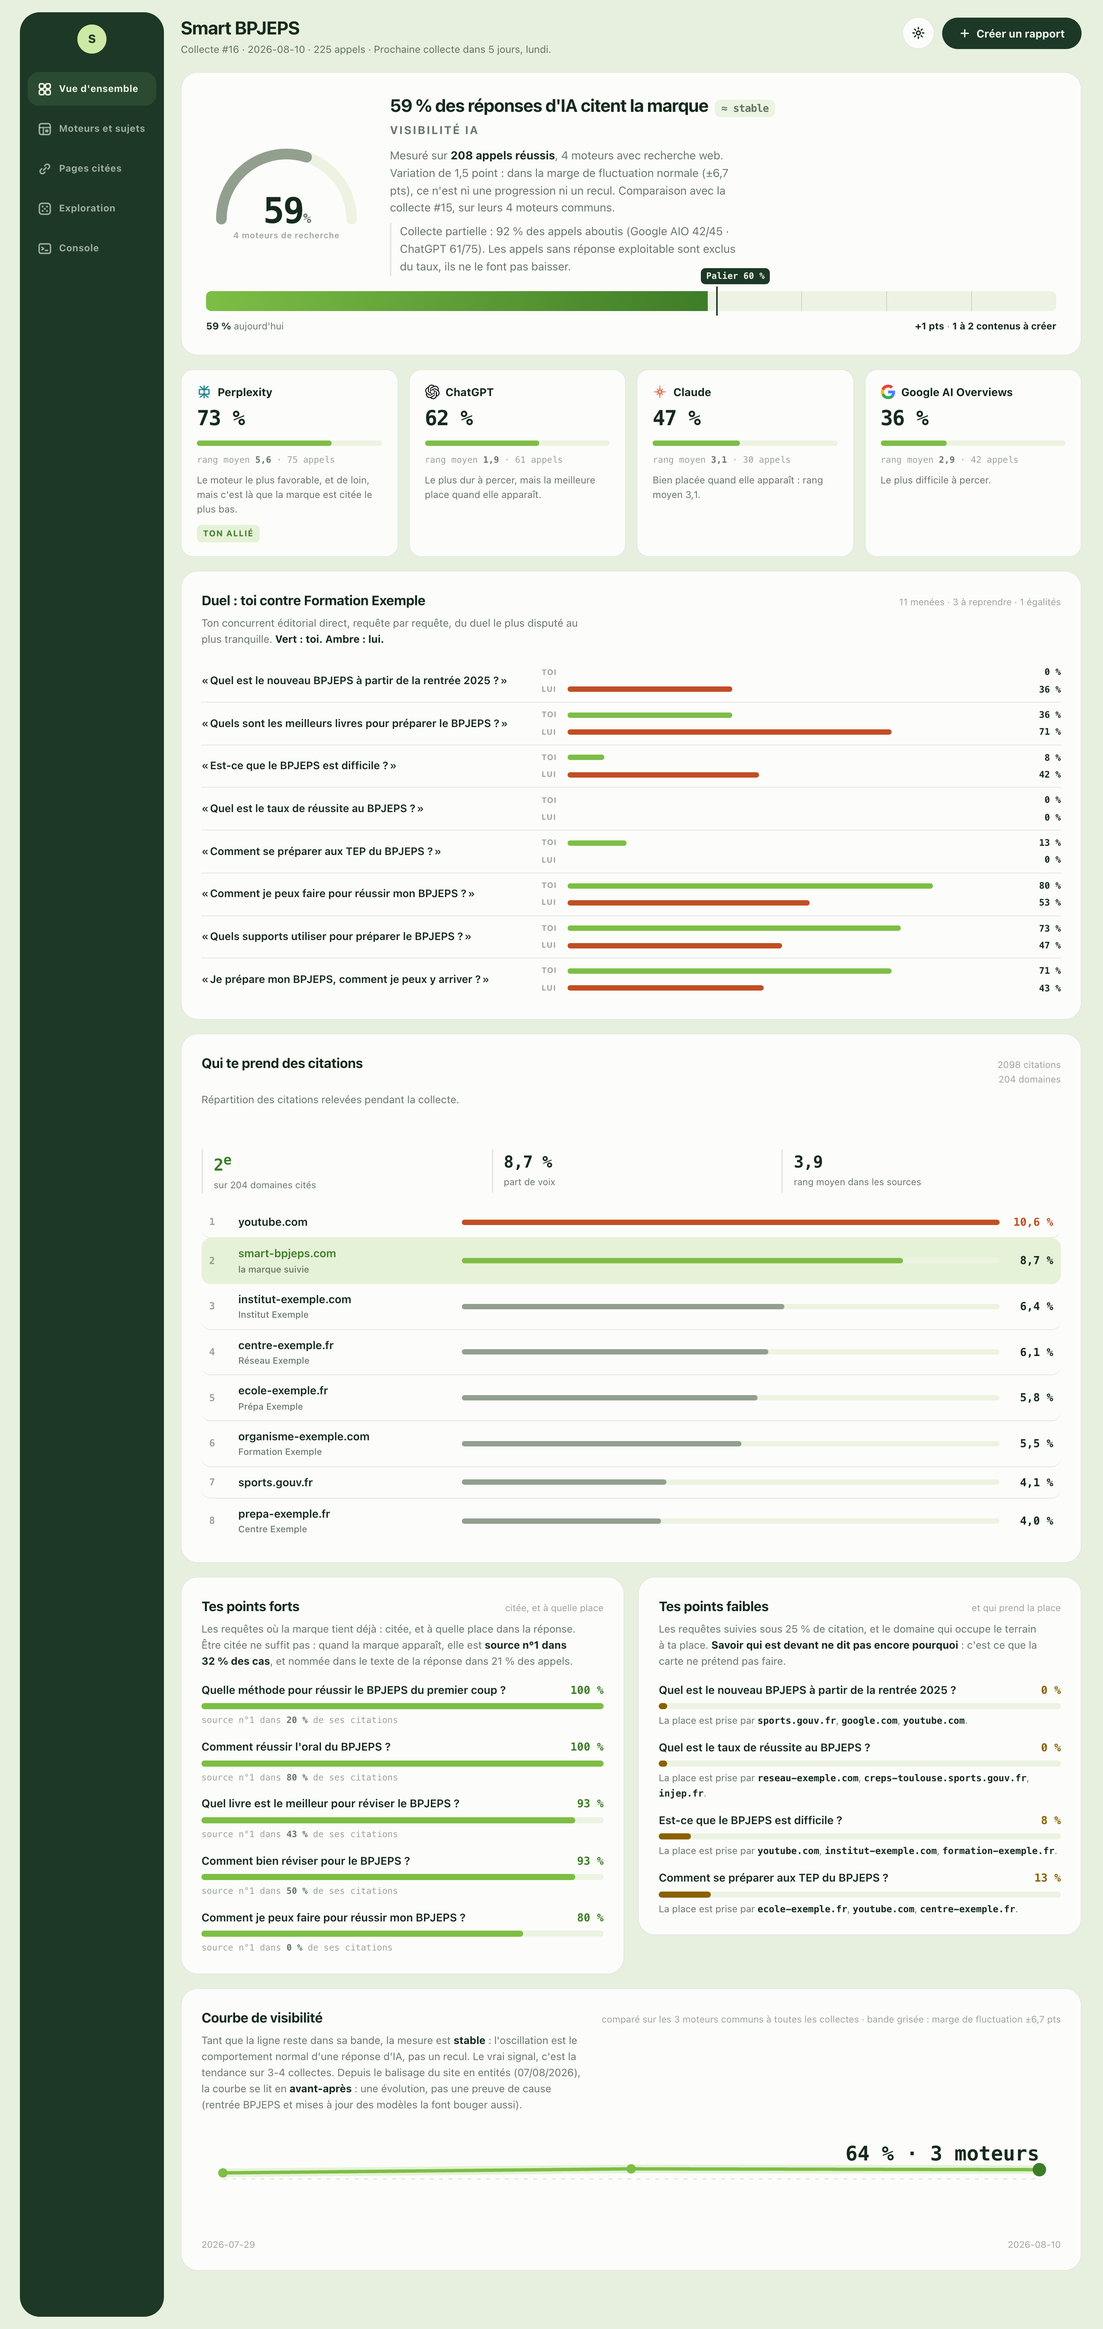
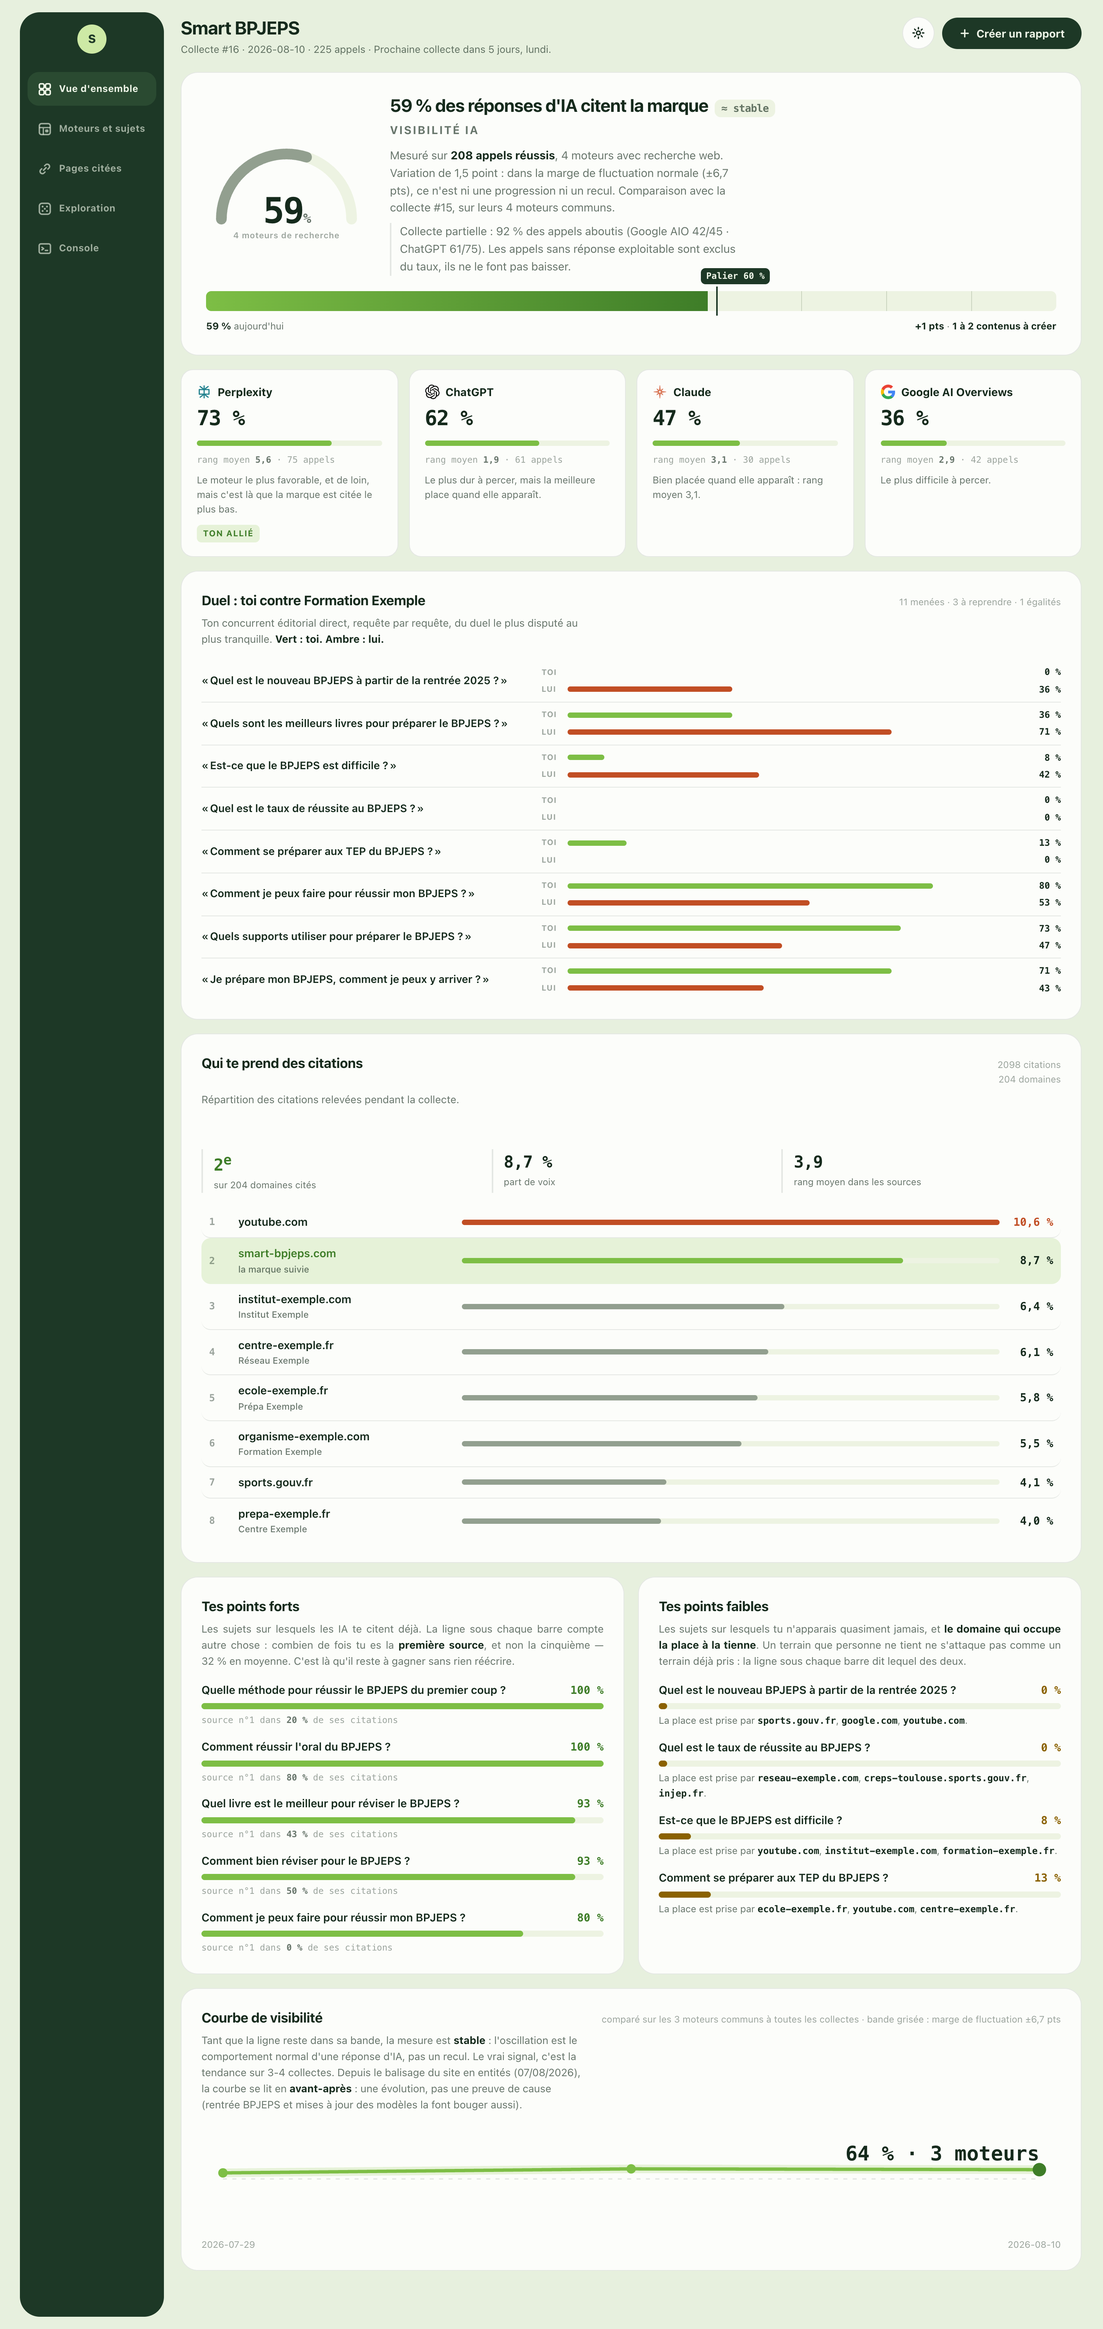
Le README retire les trois chantiers du jour, il ne garde que la direction
Console, points faibles, exploration : ecrits et pousses le jour de leur
construction, alors qu'ils sont encore en train de bouger. Ils sortent du
README public. Ce qui reste : l'extinction de la memoire de marque, parce que
la le README affirmait une methode qui n'est plus pratiquee.

Supprimer un mensonge, toujours. Ajouter une nouveaute, seulement quand la
direction est arretee.

Le code reste, la capture est refaite.

Changed region(s): [[0.5625, 0.8125, 1.0, 0.875], [0.5938, 0.6875, 0.9375, 0.7188], [0.1875, 0.6875, 0.5312, 0.7188]]

diff --git a/geotracker/dashboard_rendu.py b/geotracker/dashboard_rendu.py
@@ -374,10 +374,14 @@ button.chip[aria-selected="true"]{background:var(--forest); color:var(--sur-fore
   cursor:pointer; margin-top:11px}
 .btn--mini:focus-visible{outline:3px solid var(--data-deep); outline-offset:2px}
 
-/* align-items:start : une carte courte garde sa hauteur au lieu de s'étirer
-   et de laisser un grand vide blanc à côté d'une carte longue. */
+/* ⚠ align-items:stretch (12/08/2026, Marion : « les cartes n'ont pas la même
+   hauteur »). C'est l'INVERSE du choix précédent, qui laissait chaque carte à
+   sa hauteur pour éviter un vide blanc sous la plus courte. Arbitrage rendu
+   sur pièce : deux cartes côte à côte qui se lisent en miroir — points forts
+   / points faibles — doivent finir sur la même ligne, le vide éventuel coûte
+   moins cher que le décalage. */
 .grid{display:grid; grid-template-columns:1fr 1fr; gap:18px;
-  align-items:start}
+  align-items:stretch}
 .card{background:var(--paper); border:1px solid var(--line); border-radius:22px;
   padding:24px 26px}
 .card__head{display:flex; align-items:baseline; justify-content:space-between; gap:12px;
@@ -421,8 +425,9 @@ button.chip[aria-selected="true"]{background:var(--forest); color:var(--sur-fore
    sinon chaque ligne de l'une tombe entre deux lignes de l'autre et l'œil ne
    peut plus les comparer (vu par Marion le 12/08/2026). Les chapeaux étant de
    longueurs différentes, on leur impose un plancher commun. */
-.grid .card__lead{min-height:4.4em}
-@media(max-width:1020px){.grid .card__lead{min-height:0}}
+.grid .card__lead{min-height:4.4em; max-width:none; text-align:justify;
+  text-wrap:pretty}
+@media(max-width:1020px){.grid .card__lead{min-height:0; text-align:left}}
 .st__n1{font-family:var(--f-mono); font-size:.72rem; color:var(--ink-faint); margin-top:6px}
 .st__n1 b{color:var(--ink-soft)}
 .st--faible li h3 span{color:var(--opp)}
@@ -1002,19 +1007,25 @@ def _forteresses(f: dict) -> str:
     « Dominance » portait la part de n°1 — sur presque les mêmes requêtes, donc
     lues comme une répétition. Les deux mesures tiennent maintenant sur la même
     ligne : citée à X %, première à Y %."""
-    # Chapeau tenu court volontairement (12/08/2026) : à côté, « Tes points
-    # faibles » en fait trois lignes, et deux chapeaux de longueurs
-    # différentes décalent les deux listes l'une par rapport à l'autre — le
-    # désalignement que Marion a vu à l'écran.
-    lead = (
-        f"Les requêtes où la marque tient déjà : citée, et à quelle place dans la réponse."
-        if f["lead"]["variante"] == "exemples"
-        else "Aucune requête au-dessus de 60 % pour l'instant."
-    )
-    if f["a_dominance"]:
-        lead += (f' Être citée ne suffit pas : quand la marque apparaît, elle est '
-                 f'<strong>source n°1 dans {f["part_n1"]:.0f} % des cas</strong>, et nommée dans '
-                 f'le texte de la réponse dans {f["part_texte"]:.0f} % des appels.')
+    # Chapeau réécrit le 12/08/2026 (Marion : « le paragraphe est nul à
+    # chier »). Il DÉCRIVAIT la carte — « les requêtes où la marque tient
+    # déjà, citée et à quelle place » — au lieu de dire quoi en faire. Il
+    # part maintenant de ce que la lectrice cherche : c'est acquis, et voilà
+    # ce qu'il reste à y gagner. Longueur calée sur celle de la carte voisine.
+    if f["lead"]["variante"] != "exemples":
+        lead = ("Aucune requête au-dessus de 60 % pour l'instant : il n'y a pas encore "
+                "de sujet sur lequel s'appuyer.")
+    else:
+        lead = ("Les sujets sur lesquels les IA te citent déjà. La ligne sous chaque "
+                "barre compte autre chose : combien de fois tu es la <strong>première "
+                "source</strong>, et non la cinquième")
+        # Longueur calée sur celle de la carte voisine, à la ligne près : un
+        # chapeau de 4 lignes à côté d'un de 3 décale les deux listes, et
+        # c'est ce décalage que Marion a repéré deux fois de suite.
+        # Espace insécable avant le % : en justifié, « 32 » se retrouvait seul
+        # en fin de ligne et « % » au début de la suivante.
+        lead += (f' — {f["part_n1"]:.0f}&nbsp;% en moyenne. C\'est là qu\'il reste à '
+                 f'gagner sans rien réécrire.' if f["a_dominance"] else ".")
     st = ""
     for q in f["items"]:
         # « — » et non « 0 % » : une part de n°1 sur zéro citation n'existe
@@ -1025,8 +1036,7 @@ def _forteresses(f: dict) -> str:
                f'<div class="st__bar"><i style="width:{q["taux"]:.0f}%"></i></div>'
                f'<p class="st__n1">source n°1 dans <b>{n1}</b> de ses citations</p></li>')
     return f"""    <section class="card">
-      <div class="card__head"><h2>Tes points forts</h2>
-        <span class="card__hint">citée, et à quelle place</span></div>
+      <div class="card__head"><h2>Tes points forts</h2></div>
       <p class="card__lead">{lead}</p>
       <ul class="st">{st}</ul>
     </section>"""
@@ -1044,8 +1054,7 @@ def _faiblesses(w: dict) -> str:
     """
     if w["aucune"]:
         return f"""    <section class="card">
-      <div class="card__head"><h2>Tes points faibles</h2>
-        <span class="card__hint">et qui prend la place</span></div>
+      <div class="card__head"><h2>Tes points faibles</h2></div>
       <p class="card__lead">Aucune requête suivie sous {w['seuil']:.0f} % de citation :
       il n'y a pas de trou à combler sur cette collecte.</p>
     </section>"""
@@ -1066,14 +1075,18 @@ def _faiblesses(w: dict) -> str:
                   f'<i style="width:{max(q["taux"], 2):.0f}%"></i></div>{occ}</li>')
     reste = ""
     if w["n_total"] > len(w["items"]):
-        reste = (f' Les {len(w["items"])} plus bas sont ici, sur '
-                 f'{w["n_total"]} au total.')
+        reste = f' Les {len(w["items"])} plus bas d\'une liste de {w["n_total"]}.'
+    # Même réécriture que la carte voisine : ce chapeau disait ce que la carte
+    # CONTIENT, pas ce qu'on en fait. Il dit maintenant en quoi les deux
+    # situations qu'elle distingue — terrain libre, terrain tenu — n'appellent
+    # pas le même travail. L'avertissement « qui, pas pourquoi » reste, mais
+    # il passe après l'utile au lieu de l'ouvrir.
     return f"""    <section class="card">
-      <div class="card__head"><h2>Tes points faibles</h2>
-        <span class="card__hint">et qui prend la place</span></div>
-      <p class="card__lead">Les requêtes suivies sous {w['seuil']:.0f} % de citation, et le
-      domaine qui occupe le terrain à ta place.{reste} <strong>Savoir qui est devant
-      ne dit pas encore pourquoi</strong> : c'est ce que la carte ne prétend pas faire.</p>
+      <div class="card__head"><h2>Tes points faibles</h2></div>
+      <p class="card__lead">Les sujets sur lesquels tu n'apparais quasiment jamais, et
+      <strong>le domaine qui occupe la place à la tienne</strong>. Un terrain que personne
+      ne tient ne s'attaque pas comme un terrain déjà pris : la ligne sous chaque barre
+      dit lequel des deux.{reste}</p>
       <ul class="st st--faible">{items}</ul>
     </section>"""
 

diff --git a/tests_smoke.py b/tests_smoke.py
@@ -149,13 +149,15 @@ assert "première collecte réussie" in h
 # de l'ancienne carte Dominance, elle survit a la fusion.
 h = rendu._forteresses({"lead": {"variante": "vide", "texte_requete": None, "taux": None},
                         "part_n1": 0, "part_texte": 0, "a_dominance": False, "items": []})
-assert "0 % des cas" not in h and "au-dessus de 60 %" in h
+assert "en moyenne" not in h and "au-dessus de 60 %" in h
 # Et quand il y a de la dominance, les deux mesures tiennent sur la meme ligne.
+# Le test porte sur la GARANTIE (le chiffre global sort, la part par requete
+# aussi), pas sur la formulation exacte : le chapeau se reecrit, la garantie non.
 h = rendu._forteresses({"lead": {"variante": "exemples", "texte_requete": "Q ?", "taux": 90.0},
                         "part_n1": 32.0, "part_texte": 21.0, "a_dominance": True,
                         "items": [{"texte": "Q ?", "taux": 90.0, "part_n1": 32.0},
                                   {"texte": "R ?", "taux": 70.0, "part_n1": None}]})
-assert "source n°1 dans 32 % des cas" in h and "<b>32 %</b>" in h
+assert "32&nbsp;%" in h and "<b>32 %</b>" in h
 # part_n1 absente : « — », jamais un faux 0 % (meme regle que le hero mort)
 assert "<b>—</b>" in h
 
@@ -205,8 +207,8 @@ h = rendu._faiblesses({"seuil": 25.0, "aucune": False, "n_total": 4, "items": [
     {"texte": "Q1 ?", "taux": 0.0, "cites": 0, "ok": 20, "occupants": ["exemple.fr"]},
     {"texte": "Q2 ?", "taux": 8.0, "cites": 1, "ok": 12, "occupants": []}]})
 assert "exemple.fr" in h and "terrain libre" in h
-assert "sur 4 au total" in h            # le reste non affiche est annonce
-assert "ne dit pas encore pourquoi" in h  # la carte ne surpromet pas
+assert "d'une liste de 4" in h          # le reste non affiche est annonce
+assert "occupe la place à la tienne" in h  # la carte nomme l'occupant
 # Part de voix sans aucune source
 h = rendu._voix({"total_citations": 1, "domaines_distincts": 0,
                  "stats": {"place": None, "place_suffixe": "e", "domaines": 0,

diff --git a/README.md b/README.md
@@ -77,48 +77,6 @@ Deux règles de comptage héritées des attributs : jamais depuis une URL — un
 
 Ce que ça a donné, tant que le moteur sans recherche web était collecté : il ne connaissait **aucun** des faits déclarés — cohérent avec ce que mesurait la « mémoire de marque », et c'en était le prolongement : de « connaît-il la marque » à « connaît-il le domaine ».
 
-## Où tu es faible, et qui prend la place
-
-Un taux de citation dit qu'on n'est pas là. Il ne dit pas **qui y est à notre place** — et c'est cette question-là qui décide de ce qu'on écrit ensuite : un sujet que personne n'occupe et un sujet tenu par un concurrent installé n'appellent pas le même contenu.
-
-La table `sources` stocke le domaine de **chaque** citation de **chaque** réponse, pas seulement les nôtres. La carte « Tes points faibles » n'a donc rien eu à collecter de neuf : elle croise les requêtes sous le seuil de citation avec les domaines qui occupent le terrain sur ces mêmes requêtes.
-
-> **Ce que la carte ne prétend pas faire, et c'est écrit dessus** : savoir qui est devant ne dit pas *pourquoi*. C'est la vue Exploration qui s'en charge.
-
-## Exploration : ce que font ceux qui te devancent
-
-Un étage de **pré-sélection**, avant qu'une requête entre dans la machine hebdomadaire. On y explore — une page lue une fois, un instantané daté — là où la collecte, elle, mesure.
-
-```bash
-python -m geotracker.concurrents            # les requêtes faibles de la dernière collecte
-python -m geotracker.concurrents --dry-run  # montre les pages visées, n'appelle rien
-```
-
-Le tracker connaît l'URL exacte de chaque page citée. Ces pages sont **lues telles quelles** et comparées à la nôtre sur six critères qui ont tous la même propriété : **ils se vérifient dans le HTML.**
-
-| Critère | D'où il sort |
-|---|---|
-| Un blog | chemins éditoriaux dans les liens du site |
-| Un auteur affiché | `author` du balisage, `rel="author"`, encart d'auteur |
-| Fraîcheur | `dateModified` / `datePublished`, `article:modified_time`, `<time>` |
-| Tableaux, listes | comptage des balises |
-| Mentions extérieures | `sameAs` du balisage + liens sortants vers d'autres domaines |
-| Longueur | mots du contenu éditorial, hors navigation |
-
-**Aucun abonnement, aucune donnée achetée** : ni backlinks, ni autorité de domaine. C'est une contrainte assumée, pas un manque — les six critères tiennent sans.
-
-Quatre choses que ce module refuse de faire :
-
-**Il n'établit aucune cause.** « Il est plus frais que toi » n'est pas « il est devant parce qu'il est plus frais ». Un tableau comparatif est précisément l'objet qui donne envie d'oublier le garde-fou n°3, donc l'avertissement est sur la carte elle-même, pas dans une note de bas de page.
-
-**Une page illisible n'est jamais une page vide.** Timeout, 403, contenu rendu en JavaScript : la ligne dit « non lisible » et **ne renseigne aucun critère**. L'absence de preuve n'est pas une preuve d'absence — c'est le même faux silencieux que le produit chasse ailleurs.
-
-**Les plateformes sont écartées.** Demander si une vidéo YouTube « a un blog » produirait une ligne de tableau vide de sens, qui se lirait pourtant comme un point faible du concurrent. Qu'elles occupent le terrain reste visible ailleurs.
-
-**Le brut n'est pas conservé, contrairement aux réponses d'IA.** Garder le HTML de vingt pages par collecte gonflerait une base versionnée dans Git. Conséquence assumée et écrite : **un scan est un instantané daté qui ne se rejoue pas.** C'est l'exact inverse de la règle qui vaut pour les réponses d'IA, où le brut est le seul actif non copiable.
-
-Au passage, deux cartes ont fusionné : « forteresses » portait le taux de citation, « dominance » la part de première position — **sur presque les mêmes requêtes**, quatre lignes sur cinq en commun. Elles se lisaient comme une répétition. Les deux mesures tiennent maintenant sur la même ligne : citée à X %, première dans Y % de ses citations.
-
 ## Les cinq garde-fous
 
 **La marge de fluctuation.** Un taux de citation calculé sur un échantillon a une marge d'erreur. Elle est calculée à 95 % (`_marge()`, dans `dashboard_donnees.py`) et l'outil **refuse d'appeler « progression » un mouvement qui tient dedans** : il l'écrit à l'écran, en toutes lettres.
@@ -133,22 +91,6 @@ Au passage, deux cartes ont fusionné : « forteresses » portait le taux de cit
 **Une configuration incohérente ne produit rien.** Un fichier de suivi peut être valide en YAML et faux en pratique : un concurrent à suivre qui est en réalité le domaine mesuré (le duel se jouerait contre soi-même), une requête référencée dans un fait mais absente du jeu (une faute de frappe qui survivrait indéfiniment), un lexique vide qui resterait à zéro pour toujours. Ces cas sont vérifiés au chargement, et l'outil **s'arrête en listant les incohérences** au lieu de produire une page plausible et fausse.
 
 **L'évolution n'est pas une cause.** Depuis le 07/08/2026, tout le site est balisé en entités : la série mesure donc un **avant-après**, pas une expérience contrôlée (celle qui avait été montée a été close sans résultat, sa trace est dans le YAML). Un avant-après ne démontre aucune causalité : une hausse peut venir du balisage, mais aussi de la saisonnalité BPJEPS (rentrée) ou d'une mise à jour des modèles interrogés. L'outil suit une évolution, il ne prouve pas une cause, et tout ce qui en est présenté doit le dire.
-
-## La console : une panne n'est pas un mauvais résultat
-
-Un instrument qui tourne tout seul toutes les semaines finit par tomber en panne tout seul aussi, et une panne d'API ressemble beaucoup à une chute de visibilité. La vue **Console** existe pour que les deux ne se confondent jamais — ni dans les chiffres, ni à l'œil.
-
-**Deux compteurs, jamais un seul.** Une **panne** (le fournisseur renvoie une erreur) et une **absence de réponse** (l'appel aboutit, la réponse est vide) sortent toutes les deux du dénominateur, mais elles n'appellent pas la même chose : la première se répare, la seconde est le comportement normal d'un moteur — Google n'affiche pas d'AI Overview sur toutes les requêtes. Les additionner sous une seule colonne « Erreurs », ce que faisait la version précédente, revenait à présenter un non-événement comme un incident.
-
-**Le message brut est traduit en verdict.** `HTTP 429: {'code': 'credit_balance_exhausted'}` et `tâche DataForSEO 40101: Internal SE Server Error` ne demandent pas la même chose : l'un une carte bancaire, l'autre rien du tout. Chaque message est rangé dans une famille qui porte le verdict — **à faire**, **subi**, ou **non répertorié** —, et seules les pannes réparables remontent dans « Ce que tu dois faire ». Une famille inconnue ne reçoit **aucun conseil inventé** : elle est signalée comme telle.
-
-> Un piège payé pour de bon : le message de crédits épuisés d'OpenAI est **servi en HTTP 429**. Testé dans le mauvais ordre, une panne sèche s'affiche en « limite de cadence, ça se dissipe tout seul » — et la collecte suivante est amputée à l'identique. L'ordre des familles est donc une contrainte de correction, pas un détail d'implémentation.
-
-**Le coût est affiché avec ses trous.** Perplexity et DataForSEO renvoient un coût en dollars, Anthropic et OpenAI ne renvoient que des jetons. Le total affiché ne couvre donc que ce qui est réellement rapporté, et **nomme les fournisseurs manquants** au lieu de se faire passer pour un total. Reconstituer les deux autres supposerait une grille de prix écrite en dur, qui vieillirait en silence et finirait par afficher un montant faux avec l'aplomb d'un montant vrai.
-
-**Les collectes hors série sont repliées, pas supprimées.** Une collecte qui a lancé moins d'appels qu'il n'y a de requêtes suivies n'a pas pu couvrir le jeu : essai de mise au point ou interruption, elle n'est pas comparable aux autres. Elle garde sa ligne datée — un garde-fou du lanceur s'appuie dessus — mais elle ne se lit plus au même rang qu'une vraie collecte.
-
-Enfin, un bouton **« Copier le diagnostic »** exporte l'état de la machine et les messages bruts en texte, pour les coller ailleurs sans avoir à ouvrir la base.
 
 ## Limite assumée
 
